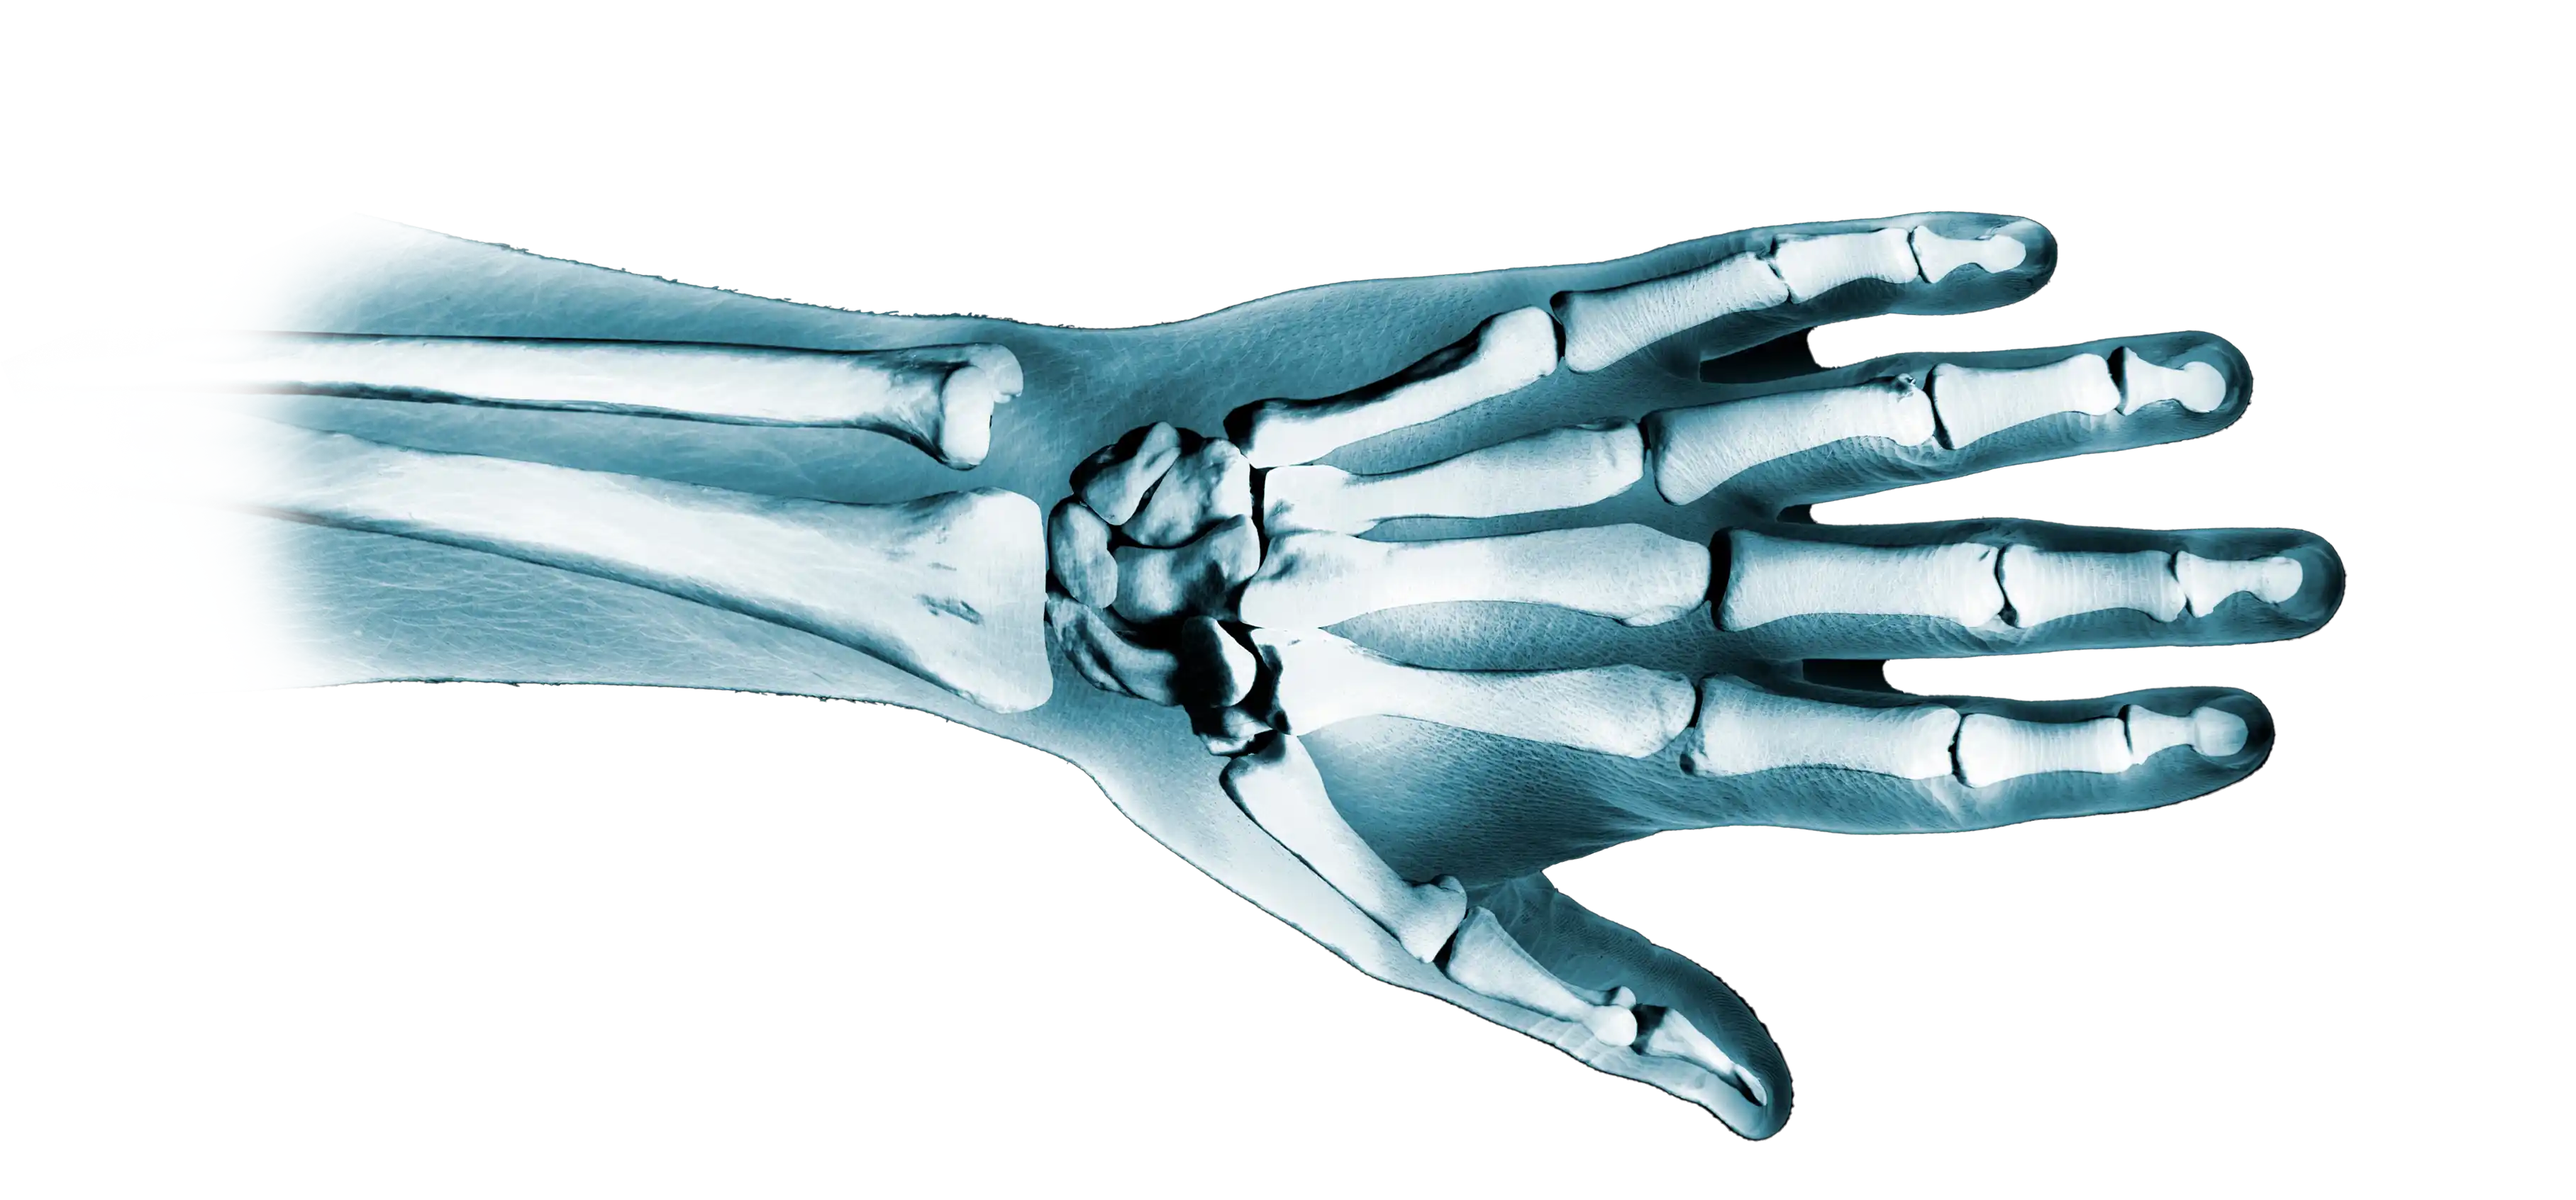
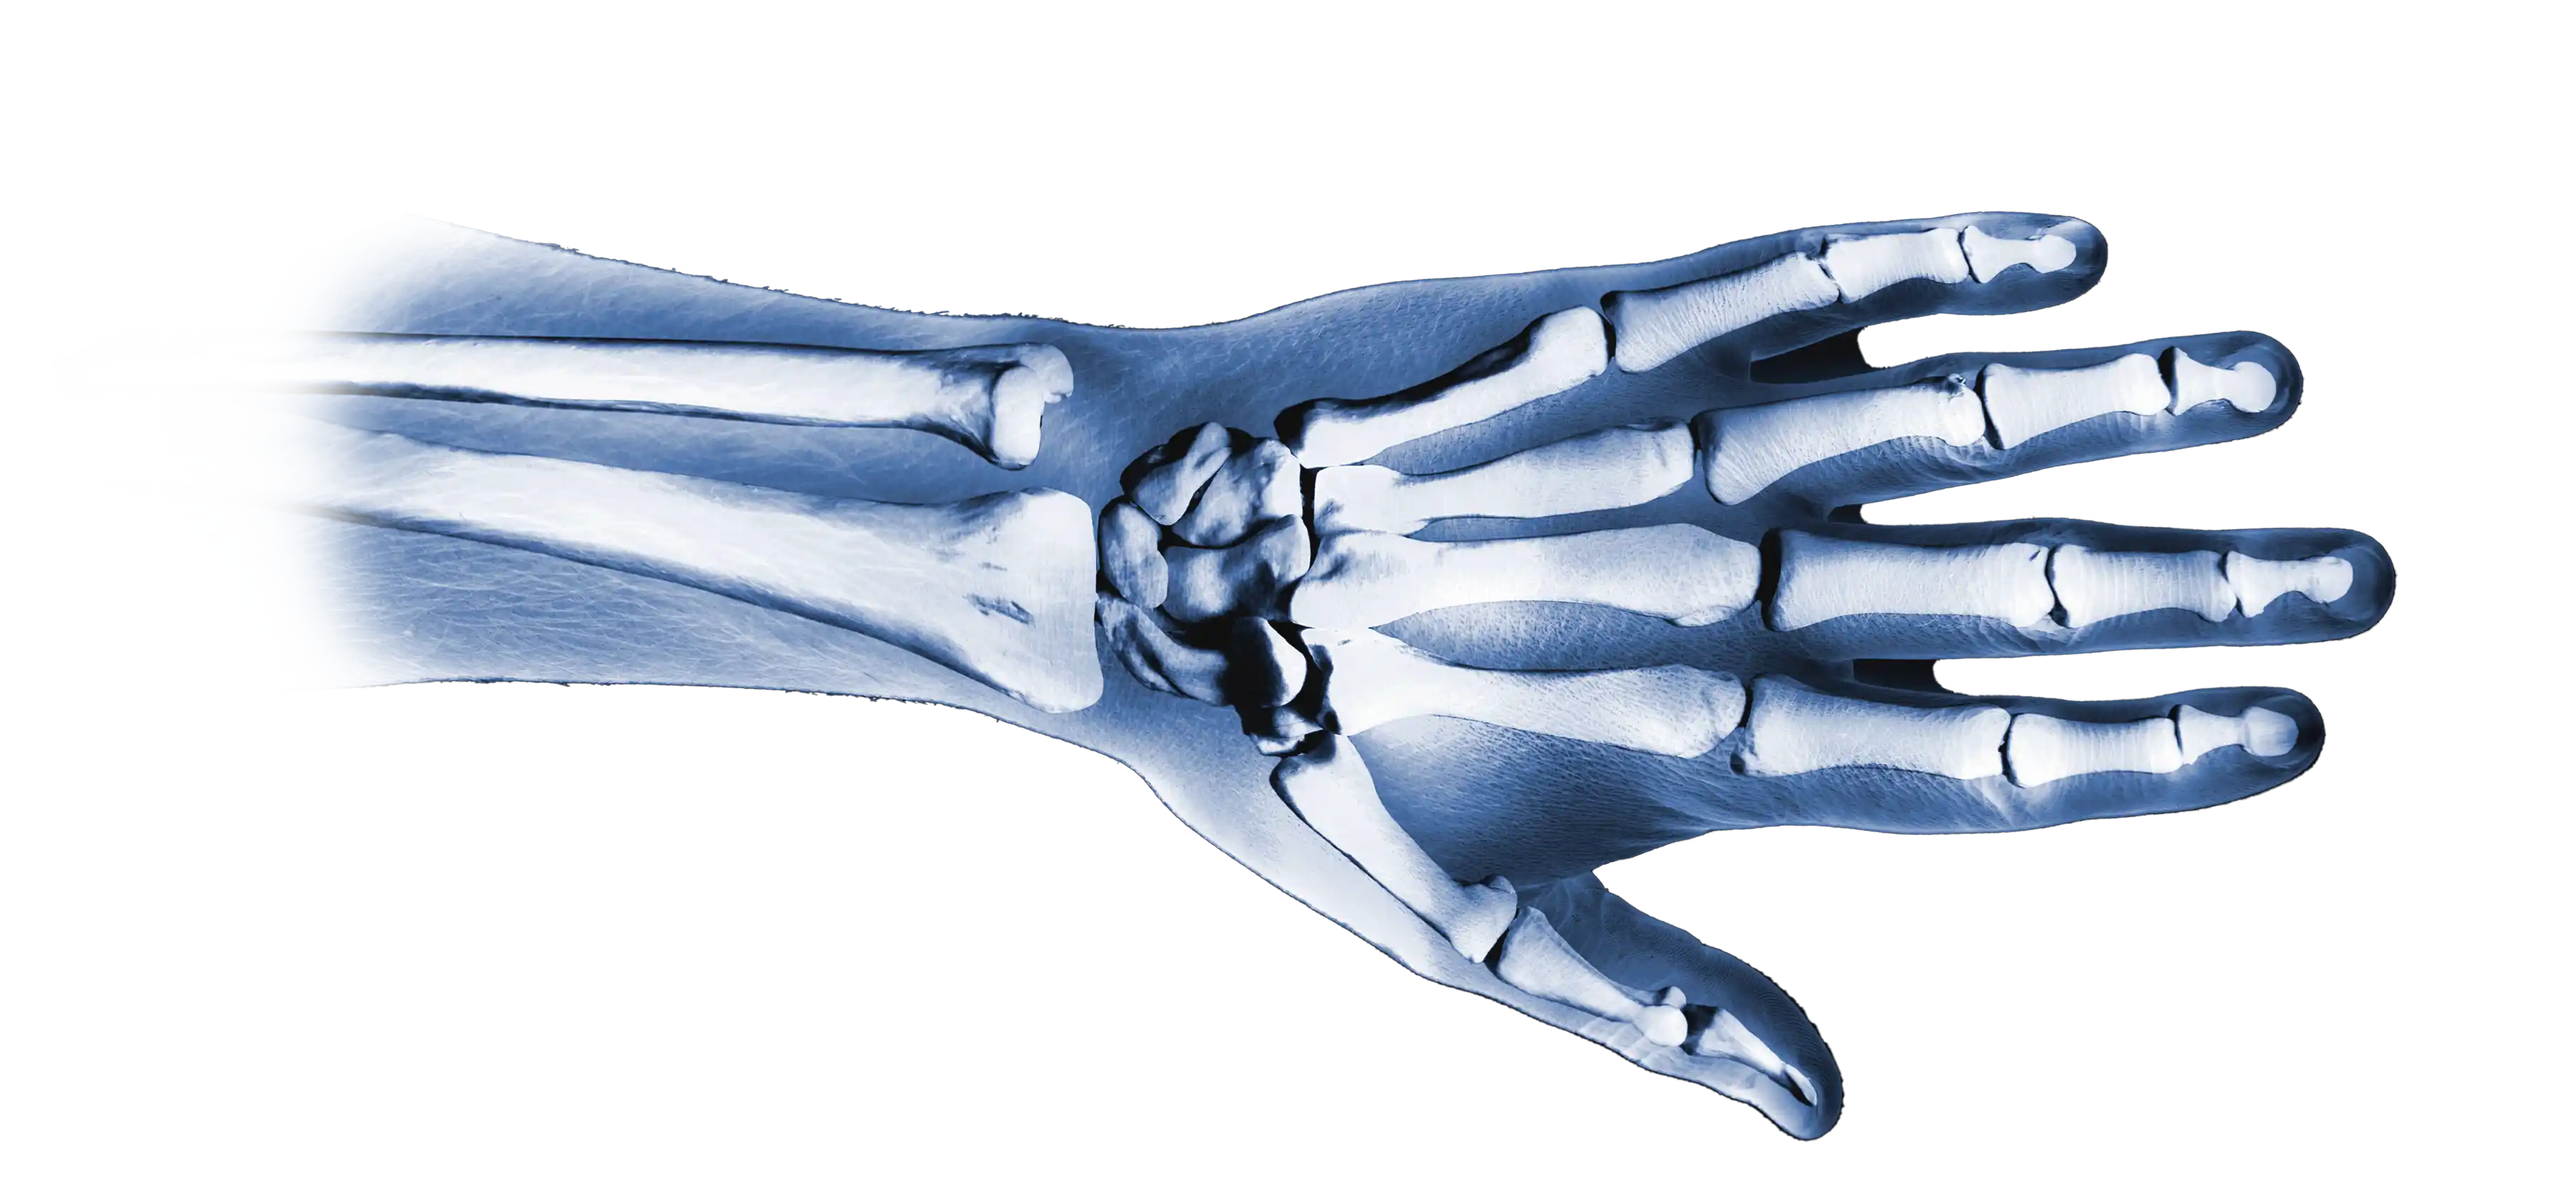
Changing images, created Game.css, started styling Game.js, changing Header.js

Changed region(s): [[0.0933, 0.1536, 0.9334, 0.9522], [0.1867, 0.1843, 0.2178, 0.215]]

diff --git a/src/Game.js b/src/Game.js
@@ -1,6 +1,8 @@
 import React, { useState } from "react";
 import { useLocation } from "react-router-dom";
 import "./App.css";
+import Header from "./Header";
+import "./Game.css";
 
 function Game() {
   //to import the useState name from Welcome Page
@@ -8,31 +10,47 @@ function Game() {
   const location = useLocation();
 
   const choices = [
-    { name: "Rock", icon: "rock-icon" },
-    { name: "Paper", icon: "paper-icon" },
-    { name: "Scissors", icon: "scissors-icon" },
+    { name: "Rock", icon: "rock" },
+    { name: "Paper", icon: "paper" },
+    { name: "Scissors", icon: "scissors" },
   ];
-  const [user, setUser] = useState("close-hand-icon");
-  const [computer, setComputer] = useState("close-hand-icon");
+  const [user, setUser] = useState(
+    <img className="left_hand" src="./media/left_rock.webp" alt="rock hand" />
+  );
+  const [computer, setComputer] = useState(
+    <img className="right_hand" src="./media/right_rock.webp" alt="rock hand" />
+  );
   const [result, setResult] = useState("VS");
   const [userPoint, setUserPoint] = useState(0);
   const [compPoint, setCompPoint] = useState(0);
   const [compHead, setCompHead] = useState([
-    "head-icon **",
-    "head-icon **",
-    "head-icon **",
+    <img src="./media/blue_head.webp" alt="blue head" />,
+    <img src="./media/blue_head.webp" alt="blue head" />,
+    <img src="./media/blue_head.webp" alt="blue head" />,
   ]);
   const [userHead, setUserHead] = useState([
-    "head-icon **",
-    "head-icon **",
-    "head-icon **",
+    <img src="./media/blue_head.webp" alt="blue head" />,
+    <img src="./media/blue_head.webp" alt="blue head" />,
+    <img src="./media/blue_head.webp" alt="blue head" />,
   ]);
   const [showModal, setShowModal] = useState(false);
 
   const handleClick = (userChoice) => {
-    setUser(userChoice.icon);
+    setUser(
+      <img
+        className="left_hand"
+        src={`./media/left_${userChoice.icon}.webp`}
+        alt="hand"
+      />
+    );
     const computerChoice = choices[Math.floor(Math.random() * choices.length)];
-    setComputer(computerChoice.icon);
+    setComputer(
+      <img
+        className="right_hand"
+        src={`./media/right_${computerChoice.icon}.webp`}
+        alt="hand"
+      />
+    );
     if (
       (userChoice.name === "Rock" && computerChoice.name === "Scissors") ||
       (userChoice.name === "Paper" && computerChoice.name === "Rock") ||
@@ -41,16 +59,24 @@ function Game() {
       setResult("You Win!!");
       setUserPoint(userPoint + 1);
       if (userPoint === 0) {
-        setUserHead(["red-head-icon **", "head-icon **", "head-icon **"]);
+        setUserHead([
+          <img src="./media/red_head.webp" alt="red head" />,
+          <img src="./media/blue_head.webp" alt="blue head" />,
+          <img src="./media/blue_head.webp" alt="blue head" />,
+        ]);
       }
       if (userPoint === 1) {
-        setUserHead(["red-head-icon **", "red-head-icon **", "head-icon **"]);
+        setUserHead([
+          <img src="./media/red_head.webp" alt="red head" />,
+          <img src="./media/red_head.webp" alt="red head" />,
+          <img src="./media/blue_head.webp" alt="blue head" />,
+        ]);
       }
       if (userPoint === 2) {
         setUserHead([
-          "red-head-icon **",
-          "red-head-icon **",
-          "red-head-icon **",
+          <img src="./media/red_head.webp" alt="red head" />,
+          <img src="./media/red_head.webp" alt="red head" />,
+          <img src="./media/red_head.webp" alt="red head" />,
         ]);
         setShowModal(true);
       }
@@ -60,53 +86,87 @@ function Game() {
       setResult("Computer Wins!");
       setCompPoint(compPoint + 1);
       if (compPoint === 0) {
-        setCompHead(["red-head-icon **", "head-icon **", "head-icon **"]);
+        setCompHead([
+          <img src="./media/red_head.webp" alt="red head" />,
+          <img src="./media/blue_head.webp" alt="blue head" />,
+          <img src="./media/blue_head.webp" alt="blue head" />,
+        ]);
       }
       if (compPoint === 1) {
-        setCompHead(["red-head-icon **", "red-head-icon **", "head-icon **"]);
+        setCompHead([
+          <img src="./media/red_head.webp" alt="red head" />,
+          <img src="./media/red_head.webp" alt="red head" />,
+          <img src="./media/blue_head.webp" alt="blue head" />,
+        ]);
       }
       if (compPoint === 2) {
         setCompHead([
-          "red-head-icon **",
-          "red-head-icon **",
-          "red-head-icon **",
+          <img src="./media/red_head.webp" alt="red head" />,
+          <img src="./media/red_head.webp" alt="red head" />,
+          <img src="./media/red_head.webp" alt="red head" />,
         ]);
         setShowModal(true);
       }
     }
   };
   const restartGame = () => {
-    setUser("close-hand-icon");
-    setComputer("close-hand-icon");
+    setUser(
+      <img className="left_hand" src="./media/left_rock.webp" alt="rock hand" />
+    );
+    setComputer(
+      <img
+        className="right_hand"
+        src="./media/right_rock.webp"
+        alt="rock hand"
+      />
+    );
     setResult("VS");
     setUserPoint(0);
     setCompPoint(0);
     setShowModal(false);
-    setCompHead(["head-icon **", "head-icon **", "head-icon **"]);
-    setUserHead(["head-icon **", "head-icon **", "head-icon **"]);
+    setCompHead([
+      <img src="./media/blue_head.webp" alt="blue head" />,
+      <img src="./media/blue_head.webp" alt="blue head" />,
+      <img src="./media/blue_head.webp" alt="blue head" />,
+    ]);
+    setUserHead([
+      <img src="./media/blue_head.webp" alt="blue head" />,
+      <img src="./media/blue_head.webp" alt="blue head" />,
+      <img src="./media/blue_head.webp" alt="blue head" />,
+    ]);
   };
 
   return (
     <div className="home">
-      <div className="container">
-        <h1>Rock,Paper,Scissors</h1>
-        <div> {user}</div>
-        <h1>{result}</h1>
-        <div>{computer}</div>
-        <div className="buttons">
-          {choices.map((choice, index) => (
-            <button key={index} onClick={() => handleClick(choice)}>
-              {choice.name}
-            </button>
-          ))}
+      <Header />
+      <div className="game_container">
+        <div className="hands_container">
+          {user}
+          <h1 className="result">{result}</h1>
+          {computer}
         </div>
-        <div className="scoreboard">
-          <h1>{location.state.name}</h1>
-          <div>{userHead}</div>
-        </div>
-        <div className="scoreboard">
-          <h1>computer</h1>
-          <div>{compHead}</div>
+
+        <div className="scoreboards_buttons">
+          <div className="buttons">
+            {choices.map((choice, index) => (
+              <button
+                className="btn"
+                key={index}
+                onClick={() => handleClick(choice)}
+              >
+                {choice.name}
+              </button>
+            ))}
+          </div>
+
+          <div className="scoreboard scoreboard_1">
+            <h1>{location.state.name}</h1>
+            <div className="head_group">{userHead}</div>
+          </div>
+          <div className="scoreboard scoreboard_2">
+            <h1>Computer</h1>
+            <div className="head_group">{compHead}</div>
+          </div>
         </div>
         {showModal && (
           <div className="modal">

diff --git a/src/Game.css b/src/Game.css
@@ -1,0 +1,132 @@
+.head_group img {
+  width: 40px;
+  height: auto;
+}
+
+.game_container {
+  display: flex;
+  flex-direction: column;
+}
+
+.hands_container {
+  display: grid;
+  grid-template-columns: repeat(2, 1fr);
+  grid-template-rows: repeat(2, auto);
+  grid-template-areas:
+    "text text"
+    "left_hand right_hand";
+  justify-items: center;
+  padding: 0 0 20px 0;
+}
+
+.hands_container img {
+  width: 100%;
+  height: auto;
+}
+
+.hands_container .left_hand {
+  grid-area: left_hand;
+  justify-self: end;
+}
+
+.hands_container .right_hand {
+  grid-area: right_hand;
+  justify-self: start;
+}
+
+.result {
+  font-family: var(--p-font);
+  background: linear-gradient(180deg, #88b5ef 0%, #cccccc 100%);
+  -webkit-background-clip: text;
+  -webkit-text-fill-color: transparent;
+  background-clip: text;
+  font-size: 30px;
+  text-align: center;
+  padding: 0;
+  grid-area: text;
+}
+
+.buttons {
+  display: flex;
+  flex-direction: column;
+  justify-content: center;
+  margin-top: 20px;
+  grid-area: buttons;
+}
+
+.btn {
+  color: #88b5ef;
+  box-shadow: 0 0 5px #88b5ef, 0 0 5px #0bf4f3 inset;
+  border: 1px solid #88b5ef;
+  z-index: 1;
+  font-size: 20px;
+  margin: 10px auto;
+}
+.btn:after {
+  position: absolute;
+  content: "";
+  width: 100%;
+  height: 0;
+  bottom: 0;
+  left: 0;
+  z-index: -1;
+  box-shadow: 0 0 5px #88b5ef, 0 0 5px #88b5ef inset;
+  transition: all 0.3s ease;
+}
+
+.btn:hover:after {
+  top: 0;
+  height: 100%;
+}
+
+/* scoreboards */
+.scoreboards_buttons {
+  display: grid;
+  grid-template-columns: repeat(2, 1fr);
+  grid-template-rows: repeat(2, auto);
+  grid-template-areas:
+    "buttons buttons"
+    "score1 score2";
+  justify-items: center;
+}
+
+.scoreboard {
+  border: 1px solid var(--blue);
+  width: 45%;
+  width: 150px;
+}
+
+.scoreboard_1 {
+  grid-area: score1;
+}
+
+.scoreboard_2 {
+  grid-area: score2;
+}
+
+@media (min-width: 768px) {
+  .hands_container {
+    grid-template-columns: 1fr 220px 1fr;
+    grid-template-rows: repeat(1, auto);
+    grid-template-areas: "left_hand text right_hand";
+  }
+
+  .result {
+    font-size: 40px;
+    max-width: 300px;
+  }
+
+  .scoreboards_buttons {
+    grid-template-columns: repeat(3, 1fr);
+    grid-template-rows: repeat(1, auto);
+    grid-template-areas: "score1 buttons score2";
+  }
+
+  .scoreboard_1 {
+    justify-self: end;
+  }
+
+  .scoreboard_2 {
+    justify-self: start;
+  }
+}

diff --git a/src/Header.js b/src/Header.js
@@ -4,8 +4,8 @@ export default function Header() {
   return (
     <div>
       <h1 id="shadow">
-        <span id="glow">Rock, Paper, </span>
-        <span id="blink">Scissors</span>
+        <span id="glow">ROCK, PAPER, </span>
+        <span id="blink">SCISSORS</span>
       </h1>
     </div>
   );
